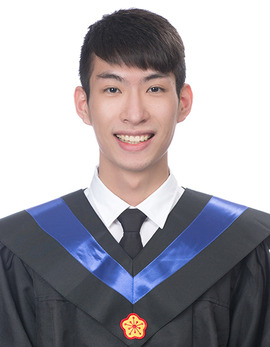
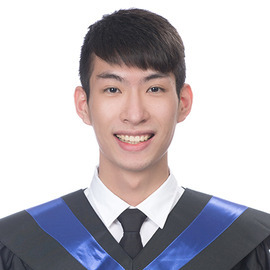
Update profile

diff --git a/_pages/about.md b/_pages/about.md
@@ -2,7 +2,7 @@
 layout: about
 title: about
 permalink: /
-subtitle: AI Researcher
+subtitle: Research Scientist
 
 profile:
   align: right
@@ -25,8 +25,8 @@ Put your address / P.O. box / other info right below your picture. You can also 
 
 Link to your social media connections, too. This theme is set up to use [Font Awesome icons](https://fontawesome.com/) and [Academicons](https://jpswalsh.github.io/academicons/), like the ones below. Add your Facebook, Twitter, LinkedIn, Google Scholar, or just disable all of them. -->
 
-Greetings! I am a third-year Ph.D. student at [National Taiwan University (NTU)](https://www.ntu.edu.tw/english/), supervised by Prof. [Yu-Chiang Frank Wang](https://vllab.ee.ntu.edu.tw/ycwang.html). Before starting graduate school, I received my Bachelor's degree in [Department of Computer Science and Information Engineering](https://www.csie.ntu.edu.tw//?locale=en) from NTU in 2022.
+I am currently a Research Intern at [NVIDIA Research](https://research.nvidia.com/labs/twn/), working on vision-language-action models with a focus on reasoning and decision-making for embodied intelligent systems.
 
-Currently, I am a Research Intern at [NVIDIA Research Taiwan](https://research.nvidia.com/labs/twn/), focusing on reasoning vision-language-action models. Previously, I worked as an Applied Scientist Intern at Microsoft, where I contributed to designing and deploying deep learning models for [Bing Maps](https://www.bing.com/maps).
+I received my Ph.D. from [National Taiwan University (NTU)](https://www.ntu.edu.tw/english/) in January 2026 under the supervision of Prof. [Yu-Chiang Frank Wang](https://vllab.ee.ntu.edu.tw/ycwang.html). Prior to my doctoral studies, I obtained my Bachelor's degree in [Computer Science and Information Engineering](https://www.csie.ntu.edu.tw//?locale=en) from NTU in 2022. I was also an Applied Scientist Intern at Microsoft, where I contributed to the development of deep learning models for Bing Maps.
 
-My research interests primarily focus on multi-modal generation and Embodied AI. Recently, I have been concentrating on reasoning vision-language-action models, exploring how to enhance embodied intelligent systems with stronger reasoning and decision-making capabilities.
+My research focuses on Embodied AI, aiming to equip robots with the ability to reason about tasks and environments through world modeling and reasoning-enhanced vision-language-action models, enabling robust, environment-grounded decision-making and interaction in the physical world.
